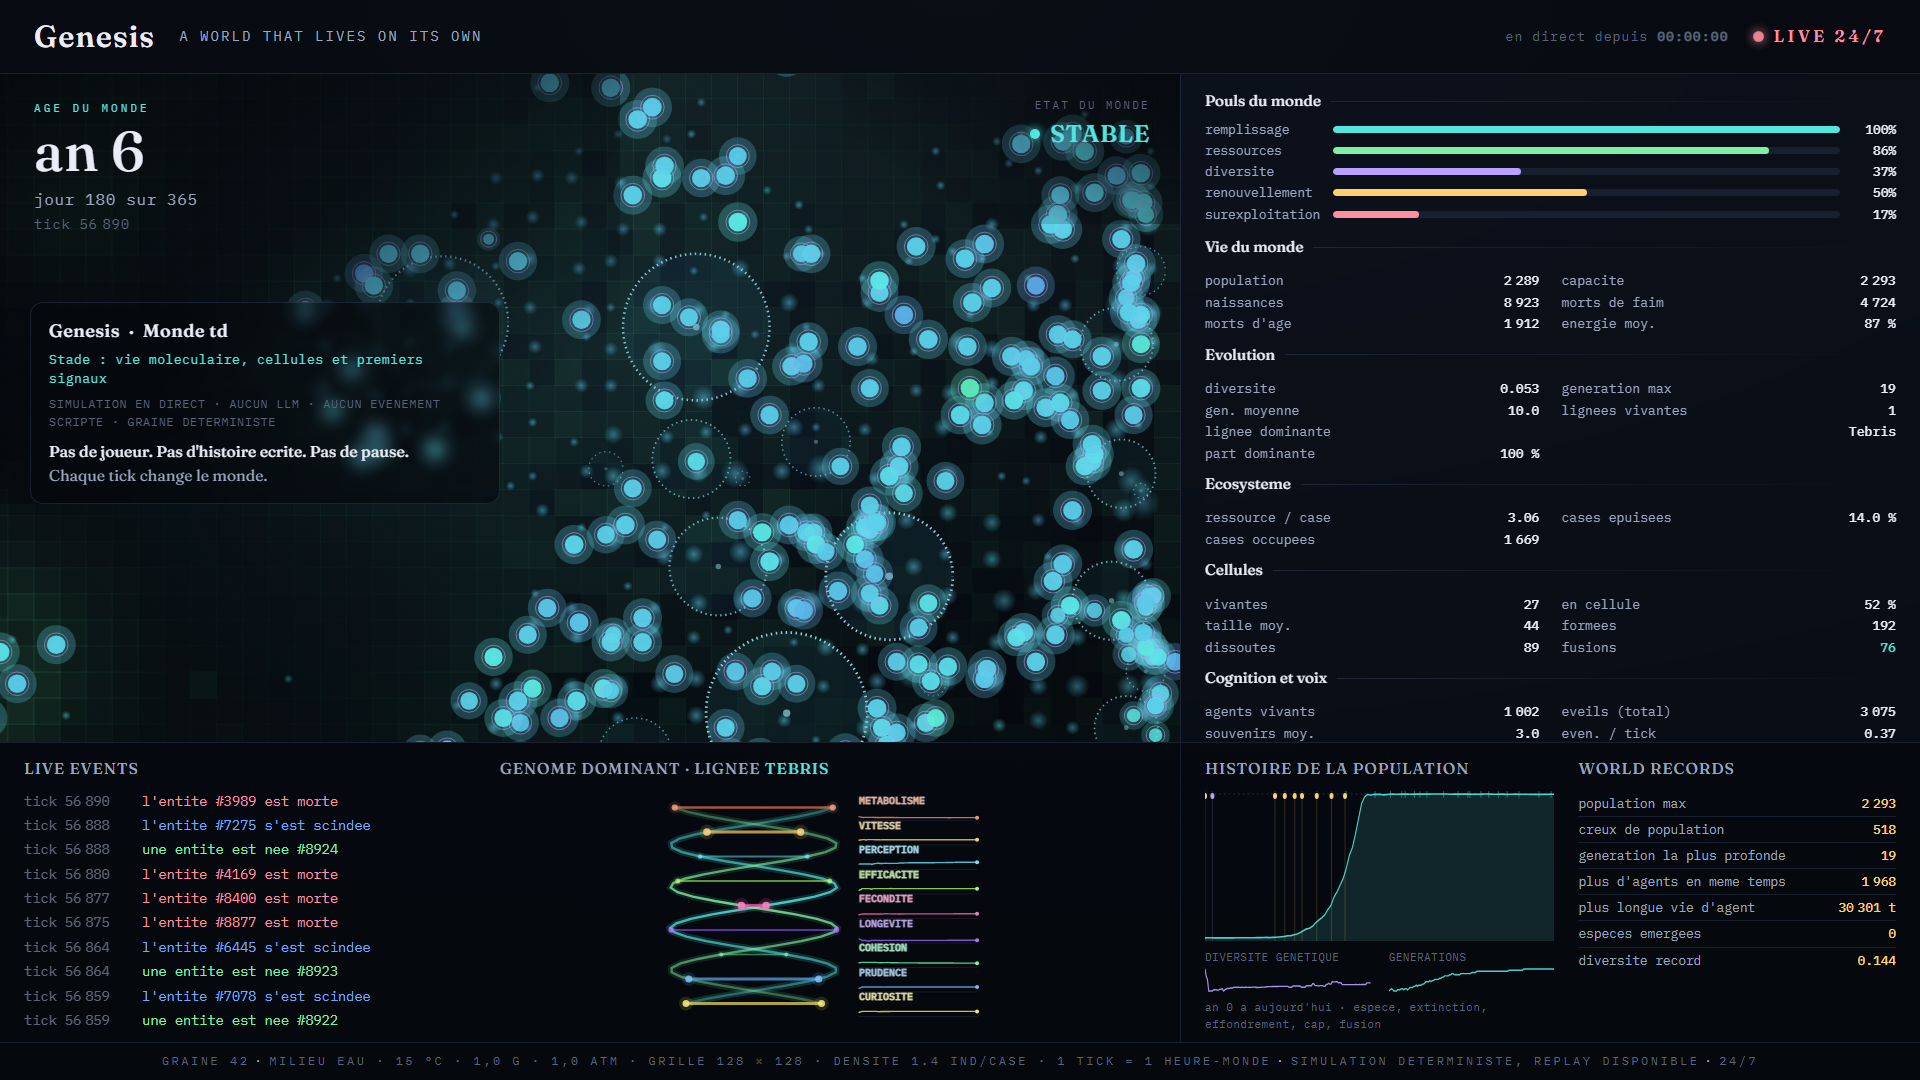
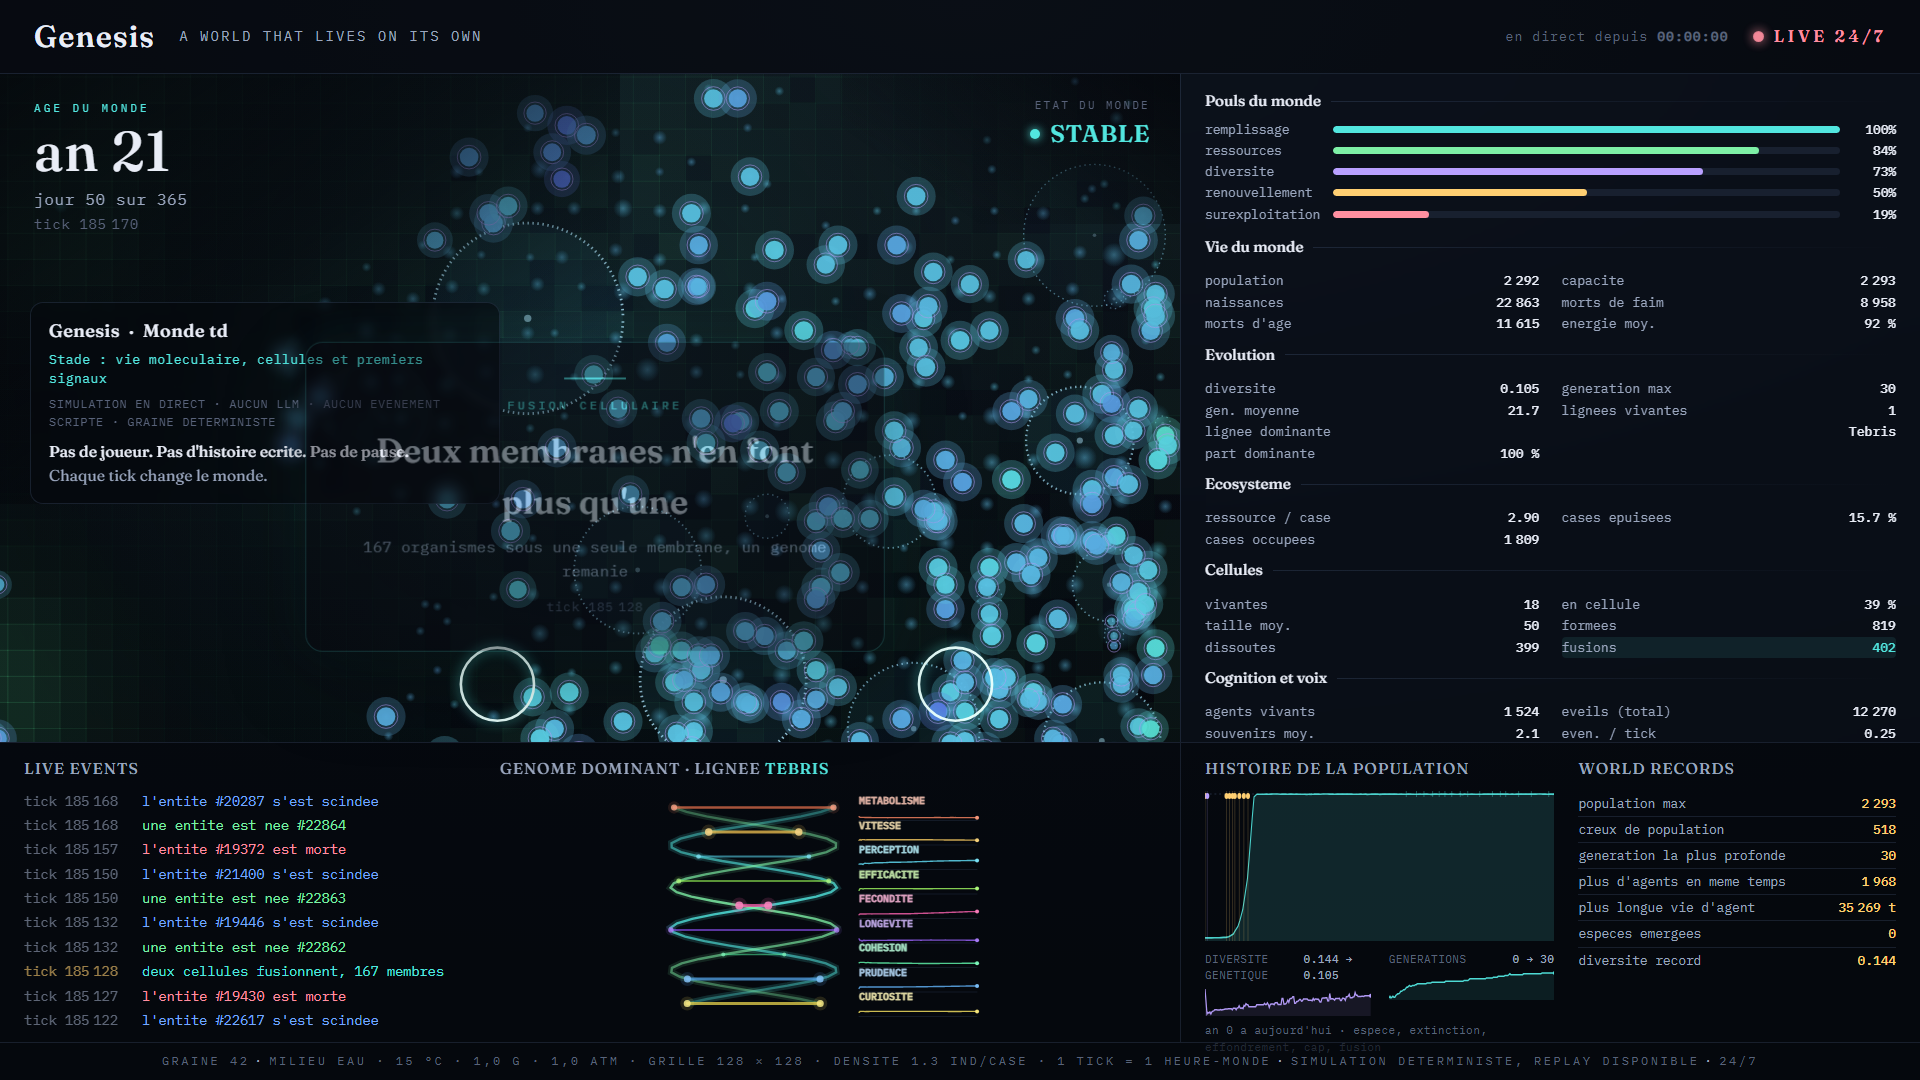
overlay : lisible aussi pour un monde tres age
Un monde tenu en direct depuis des jours atteint 40 annees-monde. La
courbe de population est alors plate depuis longtemps et sans interet ;
c'est en dessous que l'evolution se lit encore.

- Les deux sparklines (diversite, generations) gagnent une valeur
  debut -> maintenant, un remplissage, un point de fin. Pour un monde
  mur, c'est la vraie vue de l'evolution.
- Les jalons rares (genese, espece, extinction, effondrement, cap)
  restent toujours poses sur la courbe. Les fusions, nombreuses,
  s'entassaient dans la premiere annee en un trait plein : sur un monde
  age on ne garde que les recentes, echantillonnees.

diff --git a/crates/genesis-cli/src/stream_template.html b/crates/genesis-cli/src/stream_template.html
@@ -148,10 +148,11 @@
   .foot-r { grid-area:foot-r; border-top:1px solid var(--line); border-left:1px solid var(--line);
     background:rgba(6,9,15,.5); padding:14px 24px; display:grid; grid-template-columns:1.1fr 1fr; gap:24px; }
   .hist svg.big { width:100%; height:150px; display:block; }
-  .hist .spark { display:flex; gap:18px; margin-top:8px; }
+  .hist .spark { display:flex; gap:18px; margin-top:10px; }
   .hist .spark .sp { flex:1; }
-  .hist .spark .sp .lab { color:var(--muted); font-size:.68rem; letter-spacing:.05em; text-transform:uppercase; }
-  .hist .spark .sp svg { width:100%; height:26px; display:block; margin-top:2px; }
+  .hist .spark .sp .lab { color:var(--muted); font-size:.68rem; letter-spacing:.05em; text-transform:uppercase; display:flex; justify-content:space-between; }
+  .hist .spark .sp .lab b { color:var(--soft); font-weight:500; text-transform:none; font-variant-numeric:tabular-nums; }
+  .hist .spark .sp svg { width:100%; height:30px; display:block; margin-top:3px; }
   .hist .cap { color:var(--muted); font-size:.7rem; margin-top:6px; letter-spacing:.03em; }
   .records .rec { display:flex; justify-content:space-between; align-items:baseline; font-size:.8rem; padding:3px 0; border-bottom:1px solid var(--line); }
   .records .rec:last-child { border-bottom:none; }
@@ -256,8 +257,8 @@
       <div class="h2s">Histoire de la population</div>
       <svg class="big" id="hist" viewBox="0 0 520 150" preserveAspectRatio="none" role="img"></svg>
       <div class="spark">
-        <div class="sp"><div class="lab">Diversite genetique</div><svg id="spdiv" viewBox="0 0 200 26" preserveAspectRatio="none"></svg></div>
-        <div class="sp"><div class="lab">Generations</div><svg id="spgen" viewBox="0 0 200 26" preserveAspectRatio="none"></svg></div>
+        <div class="sp"><div class="lab"><span>Diversite genetique</span><b id="spdivv"></b></div><svg id="spdiv" viewBox="0 0 200 30" preserveAspectRatio="none"></svg></div>
+        <div class="sp"><div class="lab"><span>Generations</span><b id="spgenv"></b></div><svg id="spgen" viewBox="0 0 200 30" preserveAspectRatio="none"></svg></div>
       </div>
       <div class="cap" id="histcap"></div>
     </div>
@@ -650,10 +651,15 @@ function applyLive(L) {
   if (broke && prevRecords) showRecord(broke);
   prevRecords = Object.assign({}, R);
 
-  // graphes
+  // graphes : pour un monde tres age, la population est plate depuis longtemps ; c'est ici,
+  // sous la courbe, que l'evolution se lit encore (la diversite qui derive, les generations
+  // qui s'empilent).
   drawHist(L);
-  drawSpark('spdiv', (L.div_history || []), '#b9a0ff');
-  drawSpark('spgen', (L.gen_history || []), '#52e6df');
+  const dv = L.div_history || [], gv = L.gen_history || [];
+  drawSpark('spdiv', dv, '#b9a0ff');
+  drawSpark('spgen', gv, '#52e6df');
+  if (dv.length > 1) document.getElementById('spdivv').textContent = dv[0].toFixed(3) + ' → ' + dv[dv.length - 1].toFixed(3);
+  if (gv.length > 1) document.getElementById('spgenv').textContent = gv[0] + ' → ' + gv[gv.length - 1];
 
   // carte d'un nouveau grand tournant
   for (const e of (L.events || [])) {
@@ -689,14 +695,22 @@ function drawHist(L) {
   let ar = 'M0,' + H + ' ', ln = '';
   for (let i = 0; i < ph.length; i++) { const x = X(ph[i][0]).toFixed(1), y = Y(ph[i][1]).toFixed(1); ar += 'L' + x + ',' + y + ' '; ln += (i ? 'L' : 'M') + x + ',' + y + ' '; }
   ar += 'L' + W + ',' + H + ' Z';
-  // les grands tournants poses sur la courbe : hairline + point en haut, teinte par genre
-  let marks = '';
-  for (const c of (L.chronicle || [])) {
+  // les grands tournants poses sur la courbe : hairline + point en haut, teinte par genre.
+  // Les jalons rares (genese, espece, extinction, effondrement, cap) sont toujours poses.
+  // Les fusions sont nombreuses : sur un monde jeune on les montre toutes, sur un monde age
+  // elles s'entassent dans la premiere annee, on ne garde alors que les plus recentes.
+  const chron = L.chronicle || [];
+  const fusN = chron.filter(c => c.kind === 'fusion').length;
+  const fusKeepFrom = fusN > 45 ? t0 + (t1 - t0) * 0.55 : t0;
+  let marks = '', fusSeen = 0;
+  for (const c of chron) {
     if (c.tick < t0 || c.tick > t1) continue;
     const x = X(c.tick).toFixed(1);
     const col = CHRON_COL[c.kind] || '#9aa6be';
     if (c.kind === 'fusion') {
-      marks += '<line x1="' + x + '" y1="0" x2="' + x + '" y2="7" stroke="' + col + '" stroke-width="1" opacity=".45"/>';
+      if (c.tick < fusKeepFrom) continue;
+      if (++fusSeen % (fusN > 90 ? 3 : 1) !== 0) continue;
+      marks += '<line x1="' + x + '" y1="0" x2="' + x + '" y2="6" stroke="' + col + '" stroke-width="1" opacity=".4"/>';
     } else {
       marks += '<line x1="' + x + '" y1="0" x2="' + x + '" y2="' + H + '" stroke="' + col + '" stroke-width="1" opacity=".22"/>' +
                '<circle cx="' + x + '" cy="5" r="3" fill="' + col + '"/>';
@@ -715,12 +729,17 @@ function drawHist(L) {
 function drawSpark(id, arr, col) {
   const svg = document.getElementById(id);
   if (!arr || arr.length < 2) { svg.innerHTML = ''; return; }
-  const W = 200, H = 26;
+  const W = 200, H = 30;
   const mn = Math.min(...arr), mx = Math.max(...arr);
-  const Y = v => H - 2 - (mx > mn ? (v - mn) / (mx - mn) : 0.5) * (H - 4);
-  let ln = '';
-  for (let i = 0; i < arr.length; i++) ln += (i ? 'L' : 'M') + (i / (arr.length - 1) * W).toFixed(1) + ',' + Y(arr[i]).toFixed(1) + ' ';
-  svg.innerHTML = '<path d="' + ln + '" fill="none" stroke="' + col + '" stroke-width="1.4" opacity=".9"/>';
+  const X = i => (i / (arr.length - 1) * W).toFixed(1);
+  const Y = v => (H - 2 - (mx > mn ? (v - mn) / (mx - mn) : 0.5) * (H - 5)).toFixed(1);
+  let ln = '', ar = 'M0,' + H + ' ';
+  for (let i = 0; i < arr.length; i++) { ln += (i ? 'L' : 'M') + X(i) + ',' + Y(arr[i]) + ' '; ar += 'L' + X(i) + ',' + Y(arr[i]) + ' '; }
+  ar += 'L' + W + ',' + H + ' Z';
+  svg.innerHTML =
+    '<path d="' + ar + '" fill="' + col + '" opacity=".1"/>' +
+    '<path d="' + ln + '" fill="none" stroke="' + col + '" stroke-width="1.5" opacity=".95"/>' +
+    '<circle cx="' + X(arr.length - 1) + '" cy="' + Y(arr[arr.length - 1]) + '" r="2" fill="' + col + '"/>';
 }
 
 // --- le brin d'ADN : le genome dominant du monde, une double helice vivante ---
